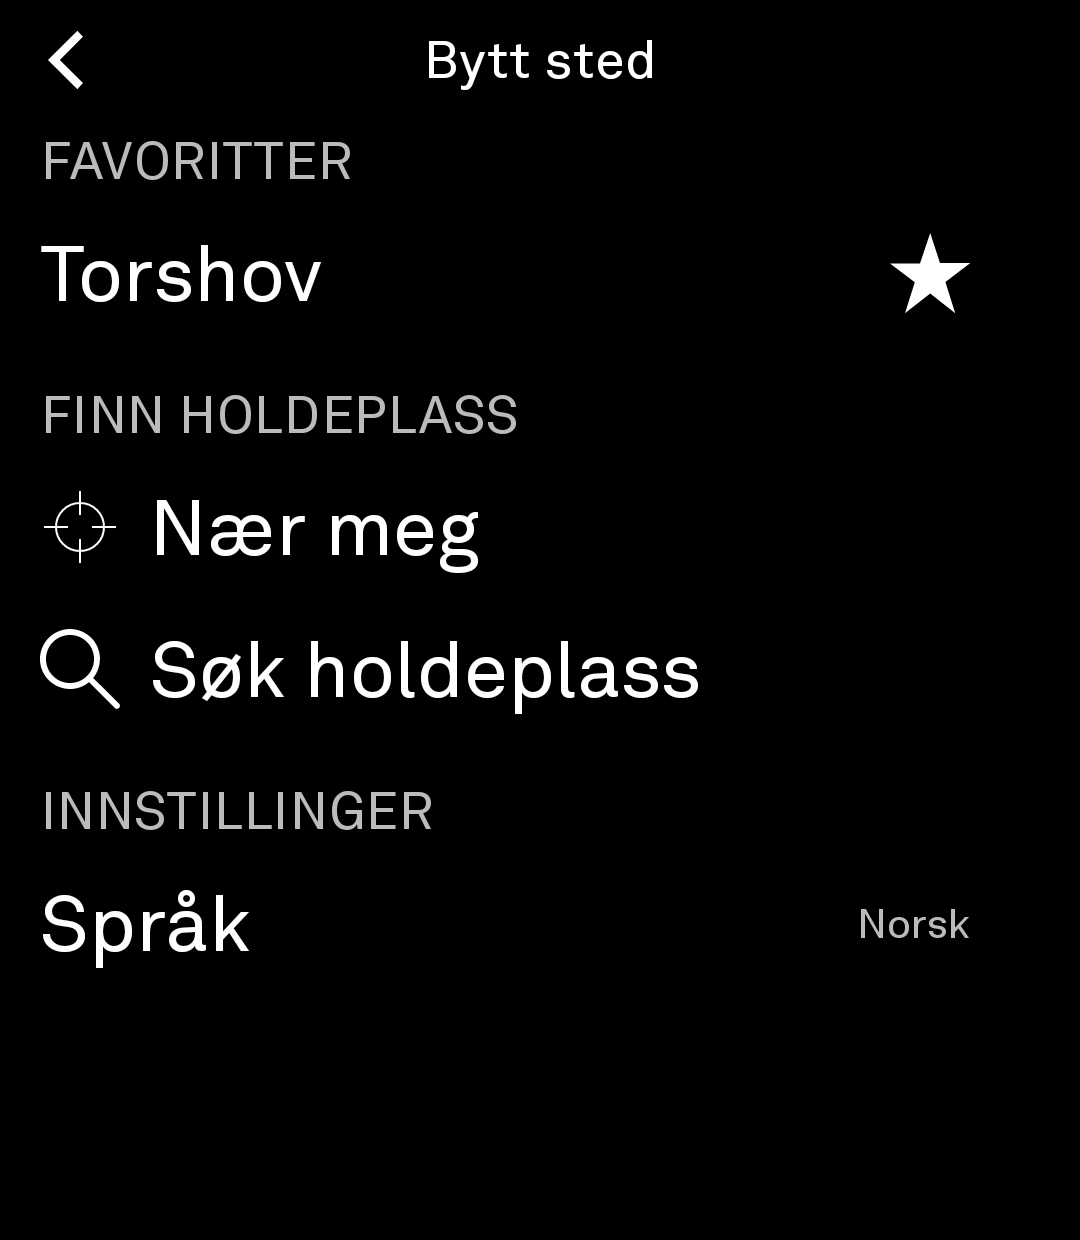
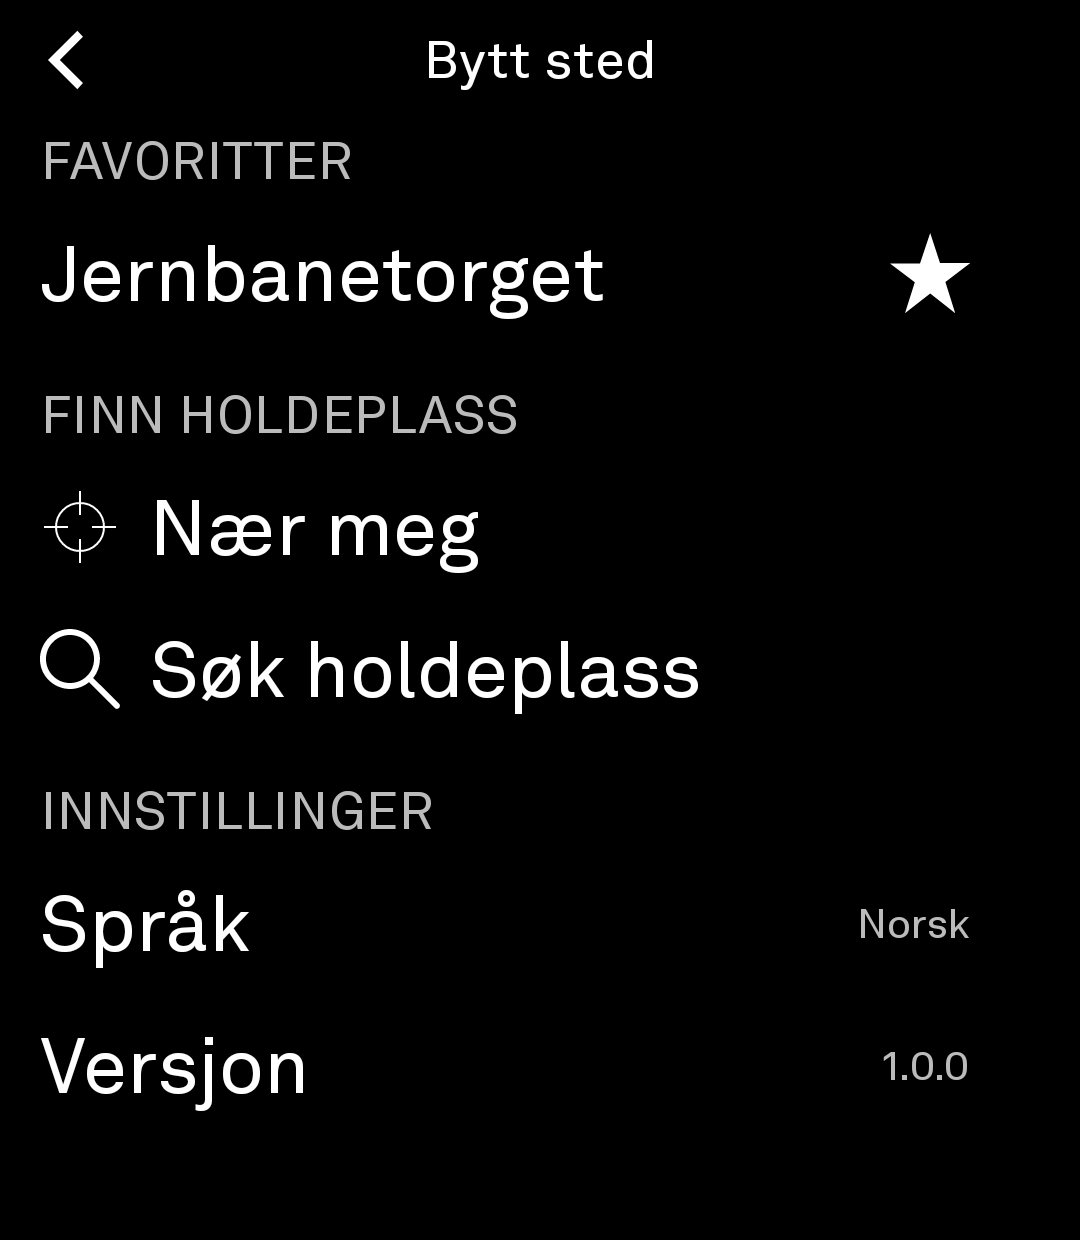
Show the app version, and re-shoot the screenshots away from home
The settings section gains a read-only version row so a bug report can say
which build it came from. It reads BuildConfig.VERSION_NAME, which the Light
plugin fills from lighttool.toml, so a release number is still written in
exactly one place.

The original screenshots were taken at the author's own stop, and the Nær meg
list in particular gave three distances to stops within 500 m of home, which
locates a flat rather more precisely than a README ought to. Re-shot at
Jernbanetorget by temporarily stubbing currentCoordinates() — reverted, and
the committed file is unchanged. The central shots are better anyway: five
metro lines, live delays and a service-message flag all visible at once.

Changed region(s): [[0.0306, 0.1839, 0.55, 0.2758], [0.0306, 0.8274, 0.3056, 0.8887], [0.825, 0.8581, 0.8861, 0.8887]]

diff --git a/examples/Sanntid/src/main/kotlin/com/thelightphone/sanntid/SanntidHomeScreen.kt b/examples/Sanntid/src/main/kotlin/com/thelightphone/sanntid/SanntidHomeScreen.kt
@@ -293,6 +293,25 @@ private fun StopPickerContent(
                     modifier = Modifier.padding(horizontal = 0.75f.gridUnitsAsDp()),
                 )
             }
+            // Not interactive — it exists so a bug report can say which build it came from.
+            Row(
+                modifier = Modifier
+                    .fillMaxWidth()
+                    .padding(vertical = 0.6f.gridUnitsAsDp()),
+                verticalAlignment = Alignment.CenterVertically,
+            ) {
+                LightText(
+                    text = strings.version,
+                    variant = LightTextVariant.Heading,
+                    modifier = Modifier.weight(1f),
+                )
+                LightText(
+                    text = BuildConfig.VERSION_NAME,
+                    variant = LightTextVariant.Detail,
+                    lighten = true,
+                    modifier = Modifier.padding(horizontal = 0.75f.gridUnitsAsDp()),
+                )
+            }
         }
     }
 }

diff --git a/examples/Sanntid/src/main/kotlin/com/thelightphone/sanntid/SanntidStrings.kt b/examples/Sanntid/src/main/kotlin/com/thelightphone/sanntid/SanntidStrings.kt
@@ -46,6 +46,7 @@ interface SanntidStrings {
     val nearMe: String
     val settingsHeading: String
     val language: String
+    val version: String
     val noDepartures: String
     val emptySearch: String
     val refresh: String
@@ -83,6 +84,7 @@ internal object NbStrings : SanntidStrings {
     override val nearMe = "Nær meg"
     override val settingsHeading = "INNSTILLINGER"
     override val language = "Språk"
+    override val version = "Versjon"
     override val noDepartures = "Ingen avganger nå."
     override val emptySearch = "Skriv inn et stoppested."
     override val refresh = "Oppdater"
@@ -133,6 +135,7 @@ internal object EnStrings : SanntidStrings {
     override val nearMe = "Near me"
     override val settingsHeading = "SETTINGS"
     override val language = "Language"
+    override val version = "Version"
     override val noDepartures = "No departures right now."
     override val emptySearch = "Enter a stop name."
     override val refresh = "Refresh"
